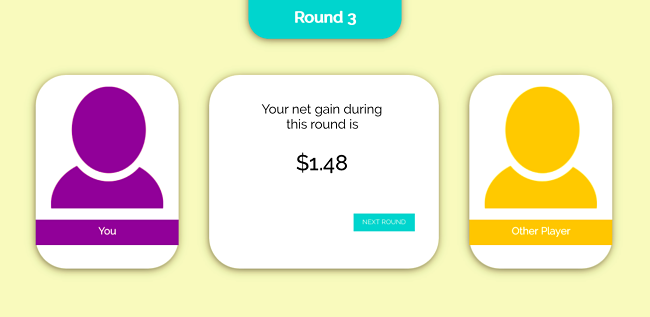
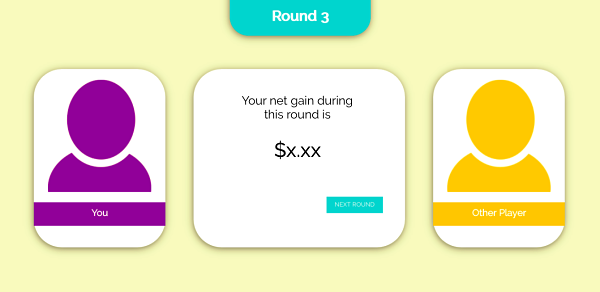
Change proportions, drift directions; replace instructions image; modify game feedback

diff --git a/src/app/game/game.component.ts b/src/app/game/game.component.ts
@@ -16,8 +16,7 @@ import { CurParticipantService } from '../participant/cur-participant.service';
 export class GameComponent implements OnInit, OnDestroy, AfterViewInit {
   @ViewChildren(OpponentComponent) opponents: QueryList<OpponentComponent>
 
-  readonly totalRounds = 1;
-  readonly totalTrials = 3;
+  readonly totalTrials = 96;
 
   // Remove this later
   oppReturn: number; 
@@ -134,8 +133,13 @@ export class GameComponent implements OnInit, OnDestroy, AfterViewInit {
   }
 
   inVolatilityPeriod(): boolean {
-    let remainder = this.trialNumber % this.totalRounds;
-    return remainder === 0 || remainder > 15 && remainder < 30;
+    if (this.trialNumber > 72 && this.trialNumber <= 84) {
+      if (this.opponent.player.id === 2) 
+        return true;
+      return false;
+    }
+    let remainder = this.trialNumber % 24;
+    return remainder === 0 || remainder > 12 && remainder < 24;
   }
 
   /**
@@ -145,8 +149,8 @@ export class GameComponent implements OnInit, OnDestroy, AfterViewInit {
    * in directions[0].
    */
   getDirectionsIdx(trial: number) {
-    let idx = Math.floor(trial / this.totalRounds);
-    if (trial % this.totalRounds === 0) {
+    let idx = Math.floor(trial / 24);
+    if (trial % 24 === 0) {
       return idx - 1;
     }
     return idx;

diff --git a/src/app/opponent/opponent.ts b/src/app/opponent/opponent.ts
@@ -59,41 +59,14 @@ export class Opponent {
   }
 
   getReturn(endowment: number) {
-    let proportion;
-    do {
-      proportion = this.rnorm(this.meanProp, .05); 
-    } while (proportion < 0)
+    let proportion = this.getProp(this.meanProp);
     return +((proportion * (3 * endowment)).toFixed(2)); 
   }
 
-  /**
-   * Generates a random number from a Gaussian distribution
-   * Based on http://c-faq.com/lib/gaussian.html and
-   * https://github.com/robbrit/randgen/blob/master/lib/randgen.js
-   */
-  rnorm(mean: number, sd: number): number {
-    var v1, v2, u1, u2, s, x;
-    var phase = 0;
-    if (mean === undefined) mean = 0.0;
-    if (sd === undefined) sd = 1.0;
-
-    if (phase == 0) {
-      do {
-        u1 = Math.random();
-        u2 = Math.random();
-
-        v1 = 2 * u1 - 1;
-        v2 = 2 * u2 - 1;
-        s = v1 * v1 + v2 * v2;
-      } while (s === 0 || s >= 1);
-
-      x = v1 * Math.sqrt(-2 * Math.log(s) / s);
-    } else {
-      x = v2 * Math.sqrt(-2 * Math.log(s) / s);
-    }
-    phase = 1 - phase;
-    
-    return x * sd + mean;
+  getProp(mean: number) {
+    let min = mean - 0.05;
+    let max = mean + 0.05;
+    return Math.random() * (max - min) + min;
   }
 }
 

diff --git a/src/app/game/game.component.html b/src/app/game/game.component.html
@@ -33,8 +33,9 @@
 
       <div *ngIf="endowmentSubmitted" id="feedback" class="card">
         <p>You invested {{ endowment | currency:'USD':true:'1.2-2' }}, and kept {{ (1 - endowment).toFixed(2) | currency:'USD':true:'1.2-2' }} for yourself.</p>
-        <p>{{ opponent.player.name }} returned {{ oppReturn | currency:'USD':true:'1.2-2' }} to you.</p>
-        <p>Your net gain during this round is</p>
+        <p>{{ opponent.player.name }} received {{ (endowment * 3).toFixed(2) | currency:'USD':true:'1.2-2' }} and returned 
+          {{ oppReturn | currency:'USD':true:'1.2-2' }} to you.</p>
+        <p>On this round you earned</p>
         <h4>{{ (1 - endowment).toFixed(2) | currency:'USD':true:'1.2-2' }} + {{ oppReturn | currency:'USD':true:'1.2-2' }} = {{ netGain | currency:'USD':true:'1.2-2' }}</h4>
         <button (click)="nextTrial()">Next Round</button>
       </div> <!-- #feedback -->

diff --git a/src/app/game/game.component.css b/src/app/game/game.component.css
@@ -71,7 +71,7 @@ h4 {
 
 #interactive-panel, #feedback {
   box-sizing: border-box;
-  padding: 3% 4% 0 4%;
+  padding: 3% 6% 0 6%;
 }
 
 #interactive-panel p {
